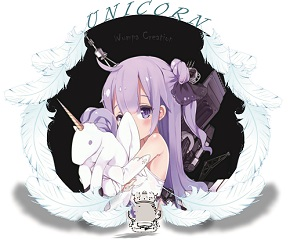
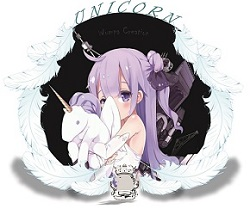
header cleaning content sidebar

diff --git a/weblearn/weblearn.html b/weblearn/weblearn.html
@@ -8,16 +8,25 @@
 
 	<body>
 		<div id="headpage">
-			<div id="header">
+				<div id="header">
 				<ul id="mainmenu">
 					<li><a href="">Main Page</a></li>
 					<li><a href="">About me</a></li>
 				</ul>
+				<p>Copyright disclaimer,main source of header image on this link <a href="https://www.deviantart.com/eriri94/art/Azur-Lane-Bismarck-715503419">https://www.deviantart.com/eriri94/art/Azur-Lane-Bismarck-715503419</a></p>
 			</div>
 		</div>
-		<div id="bodycontent">
+		<div id="sidebarlist">
+		<h2>My ingame information</h2>
+		<ul>
+			<li><a href="">My dockyard</a></li>
+			<li><a href="">My fleet</a></li>
+			<li><a href="">My living area</a></li>
+			<li><a href="">Discussion</a></li>
+		</ul>
+		</div>
+		<div id="bodycontent">	
 			<div class="bodyintroduction">
-			<div class="bgimage">
 			<h1>INTRODUCTION</h1>
 			<h2>Azur Lane Profile</h2>
 			<img src= "profile.png" alt="profile azur lane" width=550 height=350>
@@ -30,10 +39,17 @@
  					<li>Treasure node : an opponent's fleet with treasure ship which give us an equipment box or coin.</li>
  					<li>Boss node : a boss opponent's fleet that unlocked in the map after taking down a few normal node.</li>
  				</ul>
- 			<img src="gameplay.jpg" alt="gameplay azur lane" width=650 height=400>
- 			<img src="node.png" alt="node azur lane" width=700 height=400>
- 			<div class="bodyexample">
- 			<p>example : gameplay in azurlane picture (1) and (2)</p>
+ 			<div class="tableEx1">
+ 			<table>
+ 				<tr>
+ 					<td>(1)in-node gameplay</td>
+ 					<td>(2)exploration node in map</td>
+ 				</tr>
+ 				<tr>	
+ 			<td><img src="gameplay.jpg" alt="gameplay azur lane" width=450 height=260></td>
+ 			<td><img src="node.png" alt="node azur lane" width=450 height=260></td>
+ 				</tr>
+ 			</table>
  			</div>
  			<h2>User Interface Azur Lane</h2>
  			<img src="main menu.png" alt="main menu azur lane" width=680 height=400>
@@ -79,22 +95,13 @@
  				</ol>
 
  				<p>usually,i refer all equipment gear,ship list and skill description also maintenance/update notification in <a href="https://azurlane.koumakan.jp/Azur_Lane_Wiki">azurlane.koumakan site</a></p>
- 				</div>	
-	</div>
-	<div id="sidebarlist">
-		<h2>My ingame information</h2>
-		<ul>
-			<li><a href="">My dockyard</a></li>
-			<li><a href="">My fleet</a></li>
-			<li><a href="">My living area</a></li>
-			<li><a href="">Discussion</a></li>
-		</ul>
+ 	</div>	
 	</div>
 
 	<div id="footer">
 		<p>copyright 2018 by Ali Wumpa also known Wumpa the Slavemancer :whip:</p>
 	</div>
-	</div>	
+
 
 	</body>
 </HTML>

diff --git a/weblearn/css font.css b/weblearn/css font.css
@@ -1,3 +1,70 @@
+#headpage{
+	width: 960px;
+	margin: 0 auto;
+	border: 1px solid #a7d7f9;
+	padding:1em;
+	overflow: hidden;
+}
+
+#header{
+	background-image: url("bismarck.jpg");
+	background-repeat: no-repeat;
+	height:160px;
+	width:100%;
+	position: relative;
+	overflow: hidden;
+
+}
+
+#mainmenu{
+	list-style: none;
+	margin-left : -25px;
+
+}
+
+#mainmenu li{
+	float:left;
+	padding:7px;
+	border-right:2px solid #f4f7fc;
+}
+
+#mainmenu a{
+	color:#f4f7fc;
+}
+
+#header p{
+	position:absolute;
+	bottom:0px;
+	left:0px;
+	margin-left: 10px;
+	text-align:left;
+	color: #f4f7fc;
+	font-size:10px;
+}
+
+#header a{
+	color:#f4f7fc;
+}
+
+#sidebarlist{
+	float:left;
+	width:250px;
+	margin-top:10px;
+}
+
+#sidebarlist li{
+
+}
+
+#bodycontent{
+	width: 960px;
+	margin-top: 10px;
+	margin-left: 255px;
+	border: 1px solid #a7d7f9;
+	padding:1em;
+	overflow: hidden;
+}
+
 .bodyintroduction h1{
 	font-family: helvetica;
 	color : #8000ff;
@@ -17,7 +84,6 @@
 	font-family: Times New Roman;
 	text-align : justify;
 	font-size : 17px;
-	color: #fcfdff;
 	position: relative;
 	
 }
@@ -25,31 +91,17 @@
 	font-family: Times New Roman;
 	text-align : left;
 	font-size : 16px;
-	color: #fcfdff;
 	position: relative;
 	
 }
 
-.bodyexample p{
-	font-family: Times New Roman;
-	text-align: center;
-	font-size : 12px;
-	color: #fcfdff;
-	position: relative;
-}
-
 .bgimage {
-	background-image: url("unicorn.jpg");
-	position: relative;
+	background-image: url("whiteblue.jpg");
+	position:relative;
+	background-repeat: repeat-x;
+	
 }
 
-.bgimage:before{
-	content: '';
-    position: absolute;
-    top: 0;
-    right: 0;
-    left: 0;
-    bottom: 0;
-    background: rgba(0,0,0,0.7);
-}
+
+
 
